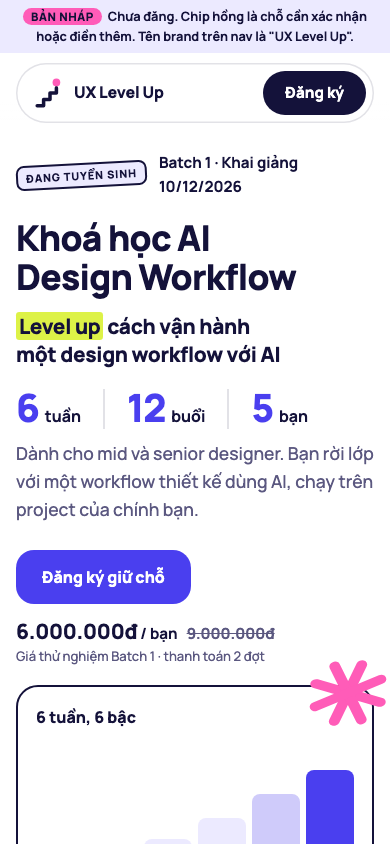
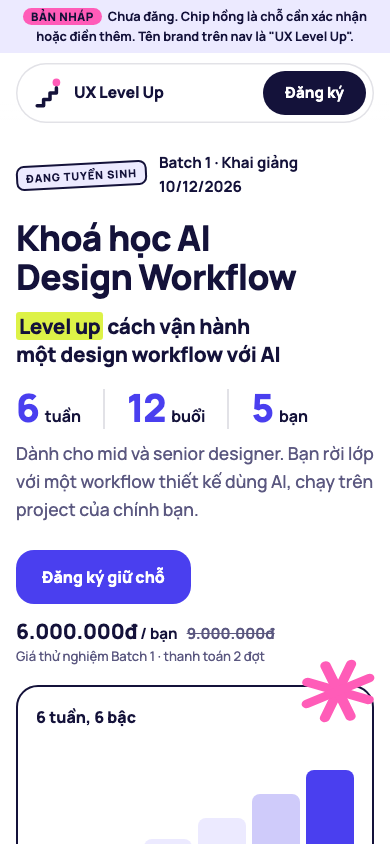
Hero star: keep inside the viewport below 1200px (fixes 13px horizontal overflow on mobile)

Changed region(s): [[0.7692, 0.7701, 1.0, 0.8626]]

diff --git a/site/public/landing-v2/index.html b/site/public/landing-v2/index.html
@@ -99,7 +99,8 @@ body.t-cap .h-text h1,body.t-cap .tagline{text-transform:capitalize}
 .star-big{position:absolute;right:-44px;top:-46px;width:96px;height:96px;color:var(--pink);pointer-events:none;transform:rotate(16deg) skewX(-10deg) scaleY(.92);transform-origin:center}
 .art-cap{margin-top:10px;font-size:.85rem;color:var(--muted)}
 .sparkle{position:absolute;width:60px;height:60px;color:var(--pink);right:-8px;top:-14px}
-@media(max-width:860px){.hero{grid-template-columns:minmax(0,1fr)}.h-art{max-width:none}.bars{height:150px}.star-big{right:-16px;top:-34px;width:80px;height:80px}}
+@media(max-width:1200px){.star-big{right:2px;top:-40px}}
+@media(max-width:860px){.hero{grid-template-columns:minmax(0,1fr)}.h-art{max-width:none}.bars{height:150px}.star-big{right:-4px;top:-34px;width:76px;height:76px}}
 
 /* Vấn đề */
 .cards4{display:grid;grid-template-columns:repeat(3,minmax(0,1fr));gap:var(--gap)}
